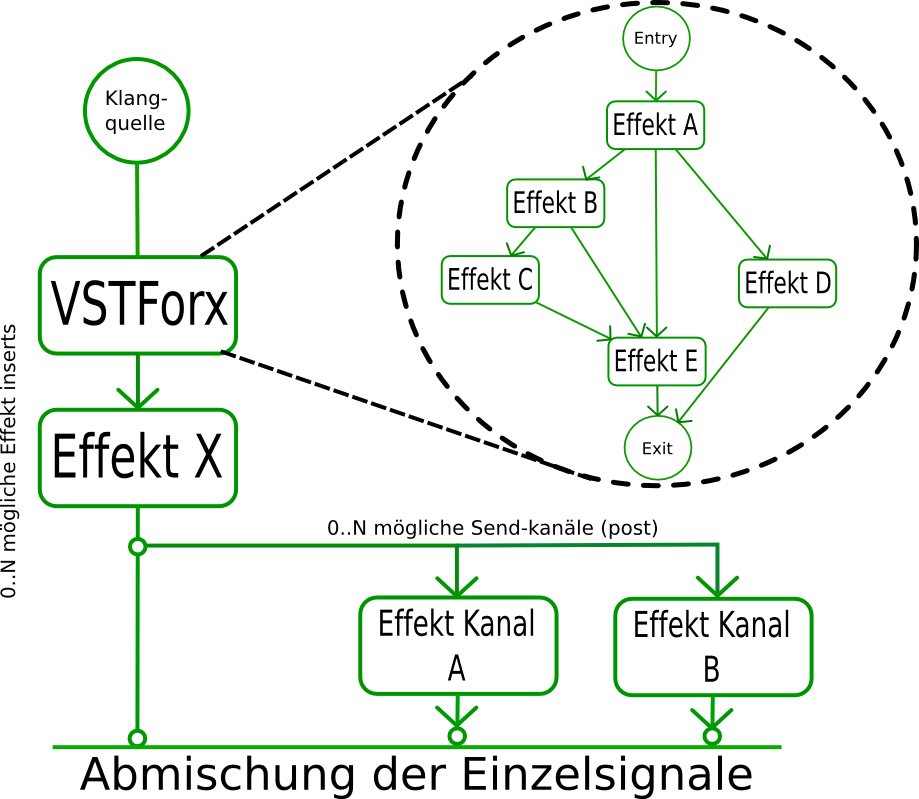
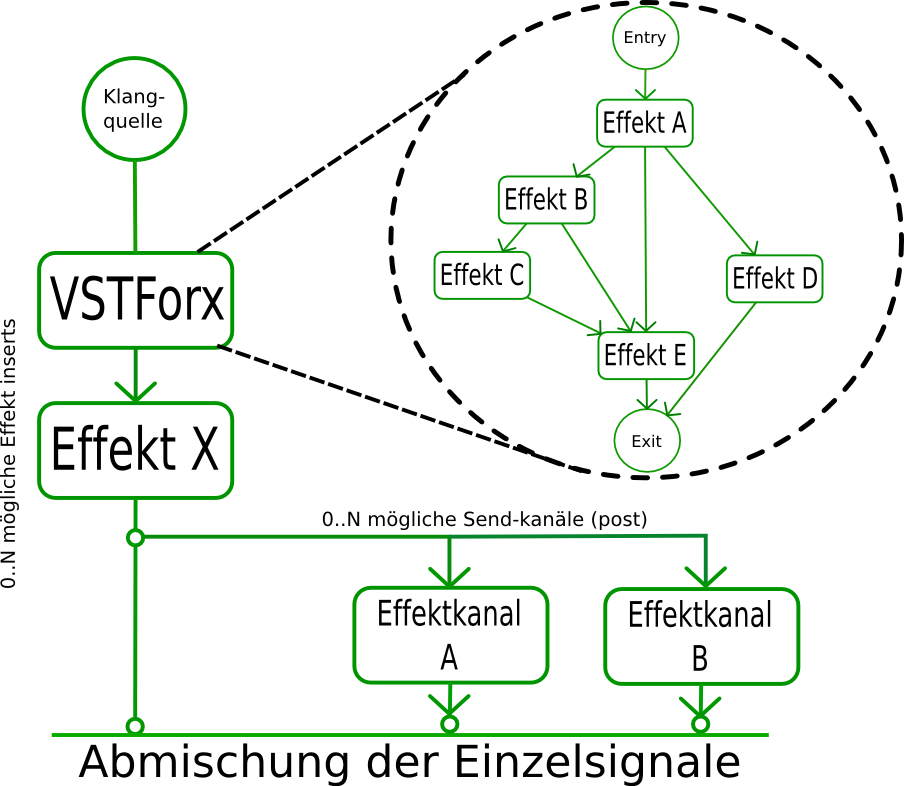
virginia mispelling fixes

diff --git a/Documents/Bc/tex/kap_Realisierung.tex b/Documents/Bc/tex/kap_Realisierung.tex
@@ -8,7 +8,7 @@ Um solchartige Probleme von vornherein zu umgehen, wurde ein bewährtes Lösungs
 Ein Nachteil beim Verwenden von \emph{Shared Pointer} ist allerdings, dass aus einem '\emph{this}' Zeiger eines Objektes kein \emph{Shared Pointer} erzeugt werden kann. So könnte zum Beispiel ein Objekt nicht sich selbst einer Methode übergeben, die ausschließlich \emph{Shared Pointer} entgegennimmt.
 Eine Lösung für dieses Problem findet sich im Abschnitt ''Smart Pointer Programming Techniques'', der \emph{Boost Shared Pointer Library Dokumentation}\verw{Boost}{Abschn.: 'Obtaining a shared\_ptr to this'}
 \\\\
-Es wird demnach ein Objekt einer Klasse ausschließlich über eine statische Methode erstellt. In dieser wird außerdem das neu erzeugte \emph{Shared Pointer} Objekt dem Zielobjekt als Weak-Pointer\verw{Ellis}{5.4. Weak pointers} übergeben (siehe Listing \ref{thisToPtr}).
+Es wird demnach ein Objekt einer Klasse ausschließlich über eine statische Methode erstellt. In dieser wird außerdem das neu erzeugte \emph{Shared Pointer}-Objekt dem Zielobjekt als Weak-Pointer\verw{Ellis}{5.4. Weak pointers} übergeben (siehe Listing \ref{thisToPtr}).
 
 \begin{code}{Shared Pointer in VSTForx-Klassen}{thisToPtr}
 class X {
@@ -61,7 +61,7 @@ Wie schon erwähnt, gibt es keinerlei Angaben, in welcher Reihenfolge diese Aufr
 	\item \funktion{dispatcher(effSetBlockSize, blockSize)}
 \end{itemize}
 
-Für einen Großteil der getesteten Plugins funktionierte dieser Vorgang. Bei einigen Plugins, kam es beim Öffnen zu Abstürzen oder sie funktionierten nicht ordnungsgemäß. Auffällig war, dass die Abstürze meist beim Aufruf von \emph{effOpen} erfolgten. Mittels Debugger konnte schließlich ermittelt werden, in welcher Reihenfolge Cubase VSTForx initialisiert:
+Für einen Großteil der getesteten Plugins funktionierte dieser Vorgang. Bei einigen Plugins kam es beim Öffnen zu Abstürzen oder sie funktionierten nicht ordnungsgemäß. Auffällig war, dass die Abstürze meist beim Aufruf von \emph{effOpen} erfolgten. Mittels Debugger konnte schließlich ermittelt werden, in welcher Reihenfolge Cubase VSTForx initialisiert:
  
 \begin{itemize}
 	\item \funktion{dispatcher(effSetSampleRate, sampleRate)}
@@ -72,14 +72,14 @@ Für einen Großteil der getesteten Plugins funktionierte dieser Vorgang. Bei ei
 	\item \funktion{dispatcher(effMainsChanged, 1) //resume}
 \end{itemize}
 
-Es ist zu anzunehmen, dass in einigen Fällen \emph{effOpen} Speicher mittels \emph{Samplerate} und/oder \emph{Blockgröße} alloziert. Wird daher \emph{effOpen} vor dem setzen der Samplerate/Blockgröße aufgerufen, kann es passieren, dass ein (unsauber programmiertes) Plugin versucht, Speicher mit undefinierter Größe zu allozieren. In C/C++ bedeutet undefiniert nicht '0', sondern irgendeine Zahl. Ist diese Zahl größer als der maximal verfügbare Speicher, bedeutet dies einen Absturz. 
+Es ist anzunehmen, dass in einigen Fällen \emph{effOpen} Speicher mittels \emph{Samplerate} und/oder \emph{Blockgröße} alloziert. Wird daher \emph{effOpen} vor dem setzen der Samplerate/Blockgröße aufgerufen, kann es passieren, dass ein (unsauber programmiertes) Plugin versucht, Speicher mit undefinierter Größe zu allozieren. In C/C++ bedeutet undefiniert nicht '0', sondern irgendeine Zahl. Ist diese Zahl größer als der maximal verfügbare Speicher, bedeutet dies einen Absturz. 
 \\\\
 Nachdem die ermittelte Reihenfolge übernommen wurde, waren keine Abstürze an der \emph{effOpen} Operation festzustellen. 
 
 \subsubsection{Stringoperation}
 Ein weiter Grund für Abstürze beim Öffnen von Plugins war das Anfordern von String-Informationen.
 So wird zum Beispiel der Pluginname mittels \codeinsert{\funktion{dispatcher(effGetEffectName, dstCharPtr)}} Aufruf angefordert. Beim Parameter \emph{dstCharPtr} handelt es sich um einen Zeiger auf eine \emph{char}-Reihung.
-Leider bietet das VST-SDK keinen Aufruf zum Ermitteln von String längen, sodass man gezwungen ist einer solchen Reihung eine feste Länge zuzuweisen. Das VST-SDK gibt hierfür die Größen vor. So existiert für jeden Aufruftyp der ein String liefert, eine Stringlängen-Konstante (zum Beispiel: \emph{kVstMaxEffectNameLen} für den Effektnamen oder \emph{kVstMaxVendorStrLen} für den Hersteller). Allerdings scheint es einige Plugins zu geben, die größere \emph{char}-Reihungen benötigen, als im VST-SDK angegeben. In solch einem Fall, kommt es zu einem Bufferüberlauf und somit zu einem Absturz. Umgangen werden konnte dies, indem der entsprechenden Reihung mehr Speicher zugewiesen wurde (2048 Zeichen statt 64). Der Fehler ist somit potentiell noch vorhanden, allerdings bietet das VST-SDK auch keine bessere Lösungsmöglichkeit.
+Leider bietet das VST-SDK keinen Aufruf zum Ermitteln von Stringlängen, sodass man gezwungen ist einer solchen Reihung eine feste Länge zuzuweisen. Das VST-SDK gibt hierfür die Größen vor. So existiert für jeden Aufruftyp der ein String liefert, eine Stringlängen-Konstante (zum Beispiel: \emph{kVstMaxEffectNameLen} für den Effektnamen oder \emph{kVstMaxVendorStrLen} für den Hersteller). Allerdings scheint es einige Plugins zu geben, die größere \emph{char}-Reihungen benötigen, als im VST-SDK angegeben. In solch einem Fall, kommt es zu einem Bufferüberlauf und somit zu einem Absturz. Umgangen werden konnte dies, indem der entsprechenden Reihung mehr Speicher zugewiesen wurde (2048 Zeichen statt 64). Der Fehler ist somit potentiell noch vorhanden, allerdings bietet das VST-SDK auch keine bessere Lösungsmöglichkeit.
 
 \subsubsection{Ausführungsverzeichnis}
 In einigen Fällen ist es für ein VST-Plugin erforderlich zu wissen, in welchem Verzeichnis es sich befindent.
@@ -87,7 +87,7 @@ Hierfür bietet das VST-SDK eine Operation: \codeinsert{\funktion{AudioEffectX::
 \emph{Cubase} und andere Hostanwendungen liefern hierfür die gewünschte Information. Der weit verbreitete Sequenzer \emph{Ableton Live} liefert jedoch einen leeren String. Somit ist es notwendig, über plattformspezifische Aufrufe an die erforderliche Information zu gelangen.
 
 \subsubsection{Verzeichnisauswahl}
-Ein ähnliches Problem bereitete die Verzeichnisauswahl. Einige Hostanwendungen bieten die Möglichkeit, einen Verzeichnisauswahl-Dialog über das VST-SDK auszuführen. Andere nicht. Somit ist es erforderlich selbst einen Auswahldialog zu implementieren. Ist eine Hostanwendung in der Lage, einen eigenen Verzeichnisauswahl-Dialog anzubieten, so sollte dieser auch genutzt werden. Im Falle des Sequenzers \emph{Synapse Orion}\footnote{http://www.synapse-audio.com/} wurde ein Verzeichnissauswahl-Dialog zwar angeboten, dieser aber liefert keinen Ergebnis-String. So konnte in besagtem Sequenzer VSTForx zwar Pluginverzeichnisse zur Auswahl anbieten, aber nicht übernehmen. Als Lösung wird nun immer die eigene Implementierung verwendet.
+Ein ähnliches Problem bereitete die Verzeichnisauswahl. Einige Hostanwendungen bieten die Möglichkeit, einen Verzeichnisauswahl-Dialog über das VST-SDK auszuführen. Andere nicht. Somit ist es erforderlich selbst einen Auswahldialog zu implementieren. Ist eine Hostanwendung in der Lage, einen eigenen Verzeichnisauswahl-Dialog anzubieten, so sollte dieser auch genutzt werden. Im Falle des Sequenzers \emph{Synapse Orion}\footnote{http://www.synapse-audio.com/} wurde ein Verzeichnissauswahl-Dialog zwar angeboten, dieser aber liefert keinen Ergebnis-String. So konnte im genannten Sequenzer VSTForx zwar Pluginverzeichnisse zur Auswahl anbieten, aber nicht übernehmen. Als Lösung wird nun immer die eigene Implementierung verwendet.
 %%%%%%%%%%%%%%%%%%%%%%%%%%%%%%%%%%%%%%%%%%%%%%%%%%%%%%%%%%%%%%%%%%%%
 \subsection{Graph-Test}
 Getestet wurde mittels dem Cppunit-Framework\footnote{http://sourceforge.net/projects/cppunit/}, welches eine C++ - Portierung von JUnit darstellt. Folgend sollen die getätigten Tests kurz beschrieben werden:
@@ -134,23 +134,23 @@ In diesem Test werden Knoten dem Graph hinzugefügt und entfernt. Es wird geprü
 Dieser Test arbeitet ähnlich wie \emph{testConnectNodes}. Getestet wird zusätzlich das Verbinden von Knoten. Folgende Operationen sollten vom Graph verweigert werden:
 \begin{itemize}
 	\item Verbinden eines Knoten mit einem ''NULL''-Knoten
-	\item Verbinden eines Knoten mit einem Knotenobjekt das nicht vom Graph aufgenommen wurde.
+	\item Verbinden eines Knoten mit einem Knotenobjekt, das nicht vom Graph aufgenommen wurde.
 	\item Erzeugen einer bereits vorhandenen Verbindung
-	\item Erzeugen einer ''Rückkoppelnden'' Verbindung
+	\item Erzeugen einer ''rückkoppelnden'' Verbindung
 \end{itemize}
 \paragraph{testSignalProcessPath}
 In diesem Test wird die vom Graph erstellte Prozess-Liste auf Korrektheit überprüft. Es werden verschiedene Szenarien erstellt und die jeweiligen Ausgaben mit entsprechenden Erwartungsergebnissen verglichen.
 \paragraph{testDelayAdapter}
-Zum Testen der Delay-Compensation wurde eigens ein ProcessAdapter implementiert. Der DelayAdapter. Dieser verzögert die Ausgabe eines Signals um N Millisekunden. Diese Funktionalität wird in diesem Test getestet.
+Zum Testen der Delay-Compensation wurde eigens ein ProcessAdapter implementiert, der DelayAdapter. Dieser verzögert die Ausgabe eines Signals um N Millisekunden. Diese Funktionalität wird in diesem Test getestet.
 \paragraph{testDelayCompensation}
-In diesem Test wird die Delay-Compensation getestet. Hierfür werden mehrere DelayAdapter Objekte in verschiedenen Szenarien eingefügt. Es wird geprüft, ob die Verzögerung des Graph-Ausgabesignals einem Erwartungswert entspricht.
+In diesem Test wird die Delay-Compensation getestet. Hierfür werden mehrere DelayAdapter-Objekte in verschiedenen Szenarien eingefügt. Es wird geprüft, ob die Verzögerung des Graph-Ausgabesignals einem Erwartungswert entspricht.
 \paragraph{testGraphConsistency}
 In diesem Test wird der Graph auf Stabilität geprüft. Es werden hintereinander viele Objekte hinzugefügt und wieder entfernt. Es werden NULL-Objekte hinzugefügt. Es wird mehrfach die Samplerate und die Blockgröße geändert (auch mit ungültigen Werten).
 \paragraph{testGraphComplex}
 In dieser Testreihe werden verschiedene Graph-Szenarien aus \\
 Volume-Adapter erstellt. Jeder Volume-Adapter erhält einen Volume-Multiplikator $vol$. Die verschiedenen Graph-Szenarien werden mit einer Eingangswertemenge($En$) prozessiert. Die Ausgabewertemenge($Ex$) muss einer Erwartungswertemenge entsprechen (siehe Abbildung \ref{testGraphComplex01} bis \ref{testGraphComplex03}). 
 \\\\
-Außerdem wird geprüft, ob die Anzahl der Frames-Objekt Kopiervorgänge der in Abschnitt \ref{Optimierung} beschriebenen Optimierung entspricht. Hierfür wird ein Zählmechanismus genutzt, der ausschließlich mittels Präprozessor Schalter: 
+Außerdem wird geprüft, ob die Anzahl der Frames-Objekt-Kopiervorgänge der in Abschnitt \ref{Optimierung} beschriebenen Optimierung entspricht. Hierfür wird ein Zählmechanismus genutzt, der ausschließlich mittels Präprozessor Schalter: 
 \codeinsert{\_FORX\_TESTSUITE}
 aktiviert wird.
 %
@@ -206,7 +206,7 @@ Der \emph{GCC C++\footnote{gcc version 4.2.1}} Compiler liefert hier allerdings 
 \emph{''invalid initialization of non-const reference of type ‘X}\&\emph{’ from a temporary of type ‘X’''}. 
 }
 \\\\
-Es ist daher nicht erlaubt, einer Funktion mit (non-const) Referenz-Parameter ein temporäres Objekt (in diesem Fall: X()) zu übergeben. Derartige Funktionen gab es einige im ursprünglichen Quelltext. Zur Lösung muss dem 'X\& x' Parameter ein \emph{'const'} Qualifier hinzugefügt werden. Prinzpiell sollte laut dem ''const-correctness'' Paradigma, 'const' wann immer wenn möglich verwendet werden\verw{Reddy}{S.180 
+Es ist daher nicht erlaubt, einer Funktion mit (non-const) Referenz-Parameter ein temporäres Objekt (in diesem Fall: X()) zu übergeben. Zur Lösung muss dem 'X\& x' Parameter ein \emph{'const'} Qualifier hinzugefügt werden. Prinzpiell sollte laut dem ''const-correctness'' Paradigma, 'const' wann immer wenn möglich verwendet werden\verw{Reddy}{S.180 
 ff}.
 
 \paragraph{Templates}
@@ -236,7 +236,7 @@ int main() {
 }
 \end{code}
 
-Das Problem des \emph{GCC-Compilers} ist nun, dass versucht wird, auf ein \emph{Archive} Objekt zuzugreifen, welches erst durch den Template-Parameter spezifiziert wird. Die Lösung ist das Hinzufügen des Schlüsselwortes, ''\emph{template}'' vor entsprechenden Aufruf:
+Das Problem des \emph{GCC-Compilers} ist nun, dass versucht wird, auf ein \emph{Archive}-Objekt zuzugreifen, welches erst durch den Template-Parameter spezifiziert wird. Die Lösung ist das Hinzufügen des Schlüsselwortes, ''\emph{template}'' vor entsprechendem Aufruf:
 \codeinsert{archive.template register\_type<Volume>();}
 
 

diff --git a/Documents/Bc/tex/kap_Loesungsansaetze.tex b/Documents/Bc/tex/kap_Loesungsansaetze.tex
@@ -2,13 +2,13 @@
 \section{Lösungsansätze}
 %%%%%%
 \subsection{Analyse vorhandener Systeme}
-Es existieren bereits einige Systeme, welche die gewünschten Funktionalität teilweise oder ganz umsetzen. Folgend sollen diese betrachtet werden. Es soll geklärt werden, welche Funktionen übernommen beziehungsweise sinnvoll erweitert werden können.
+Es existieren bereits einige Systeme, welche die gewünschte Funktionalität teilweise oder ganz umsetzen. Folgend sollen diese betrachtet werden. Es soll geklärt werden, welche Funktionen übernommen beziehungsweise sinnvoll erweitert werden können.
 \subsubsection{Native Instruments Reaktor}
 \emph{Reaktor\footnote{http://www.native-instruments.com/\#/en/products/producer/reaktor-55/. \\Abgerufen am 05.Februar 2011}} ist ein leistungsstarkes System zum Erschaffen von Effekten und Synthesizern. Es gibt eine Vielzahl an Modulen, die frei ''verdrahtet'' werden können. Ab Version 5 ist es sogar möglich, eigene Module mittels DSP-Schaltungen zu entwerfen\verw{Reaktor}. Die Module werden durch Parameter gesteuert, welche in Form von Drehreglern, auf einem frei gestaltbaren Bedien-Panel platziert werden können. Die Bedienung ist zwar direkt und intuitiv, der Programm-Anfänger jedoch ist schnell überfordert durch die Vielzahl an Funktionen und Modulen. Hier ist eine lange Einarbeitungszeit notwendig. Reaktor ist u.a. als VST-Plugin verfügbar, bietet aber keine Möglichkeit VST-Plugins zu laden und zu verwenden.
 \subsubsection{Ableton Live}
 \emph{Ableton Live\footnote{http://www.ableton.com/. Abgerufen am 05.Februar 2011}} ist in erster Linie ein Sequenzer. Der Fokus liegt daher auf dem Erstellen von Musikstücken. Ähnlich zu Cubase existiert hier ebenfalls das Spur/Mischpult-Prinzip. Effekte lassen sich somit ausschließlich nach vorgegebenen ''Bahnen'' verknüpfen. Einen interessanten Ansatz bieten die sogenannten ''Makro-Regler''. Diese erlauben es beliebig viele Bedienelemente, d.h auch VST-Pluginparameter, über einen ''Marco''-Regler zu steuern. Das Regelverhalten ist umkehrbar\verw{Ableton}{S.252 f}. 
 \\\\
-Die Benutzung solcher ''Makro-Regler'' ist wenig intuitiv. Um eine ''Makro''-Verbindung zu erstellen, sind mehrere Kontextmenü-Aufrufe an unterschiedlichen und teilweise unerwarteten Stellen notwendig. 
+Die Benutzung solcher ''Makro-Regler'' ist wenig intuitiv. Um eine ''Makro''-Verbindung zu erstellen, sind mehrere Kontextmenüaufrufe an unterschiedlichen und teilweise unerwarteten Stellen notwendig. 
 Dargestellt werden schließlich diese Verbindungen in einer Tabellen-Ansicht. Somit ist auf einen Blick nicht sofort erkennbar, welche Verbindungen bestehen. Dennoch ist der Zweck dieser Funktionalität interessant:  verschiedene Parameter verschiedener Effekte sinnvoll zu gruppieren.  
 \subsubsection{Metaplugin}
 Das VST-Plugin \emph{Metaplugin\footnote{http://www.ddmf.eu/product.php?id=3. Abgerufen am 05.Februar 2011}} erlaubt es, beliebig viele VST-Plugins auf einer ''Bühne'' zu platzieren und beliebig miteinander zu ''verdrahten''. Darüber hinaus bietet es keine weiteren Funktionen. Dadurch ist es allerdings auch sehr gut bedienbar. Die gesamte Funktionalität kann in innerhalb weniger Minuten allein durch Ausprobieren intuitiv erfasst werden.
@@ -30,13 +30,13 @@ Gegeben sei folgendes Beispiel:
 \\\\
 Der erforderliche Prozessablauf für Abbildung \ref{g01} wäre:
 \begin{enumerate}
-	\item bereite Inputsampleblöcke für Plugin-A vor
-	\item führe ''processReplace'' mit Plugin-A aus
-	\item bereite Inputsampleblöcke für Plugin-B vor (mit der Ausgabe von Plugin-A)
-	\item führe ''processReplace'' mit Plugin-B aus
-	\item\label{PlugC}bereite Inputsampleblöcke für Plugin-C vor (mit der Ausgabe von Plugin-A und B)
-	\item führe ''processReplace'' mit Plugin-C aus
-	\item übertrage die Ausgabe von Plugin-C in die Programm(VSTForx) Ausgabesampleblöcke
+	\item Vorbereitung der Inputsampleblöcke für Plugin-A
+	\item Ausführung von Plugin-A : ''processReplace''
+	\item Vorbereitung der Inputsampleblöcke für Plugin-B (mit der Ausgabe von Plugin-A)
+	\item Ausführung von Plugin-B: ''processReplace''
+	\item\label{PlugC}Vorbereitung der Inputsampleblöcke für Plugin-C (mit der Ausgabe von Plugin-A und B)
+	\item Ausführung von Plugin-C: ''processReplace''
+	\item Übertragung der Ausgabe von Plugin-C in die Programm (VSTForx) Ausgabesampleblöcke
 \end{enumerate}
 Wie in Schritt \ref{PlugC} zu sehen, ist zur korrekten Ausführung von Plugin-C notwendig, dass die Plugins A und B bereits bearbeitet wurden. Das bedeutet: Plugin-C ist von Plugin-A und Plugin-B abhängig. \\\\
 In der Graphentheorie gibt es einen Algorithmus, der in der Lage ist Abhängigkeiten aufzulösen: die Topologische Sortierung.
@@ -67,13 +67,13 @@ Bei einer Parallelschaltung, zweier Plugins mit unterschiedlichen Latenzwerten, 
 \\\\
 Um unterschiedliche Latenzen in einem komplexen Graph auszugleichen, sind folgende Schritte notwendig:
 \begin{itemize}
-	\item Hinzufügen eines berechneten Latenzwert je Knoten : $GL$ = Graphlatenz = die Latenz im Graph an Position des Knoten.
+	\item Hinzufügen eines berechneten Latenzwert je Knoten: $GL$ = Graphlatenz = die Latenz im Graph an Position des Knoten
 	\begin{description}
 		\item[$GL$ = ] Maximum($GL$-Wert der Elternknoten) + Knoten(Plugin)-Latenzewert
 	\end{description}
 	\item der $GL$-Wert des Graph-Ausgangsknoten = Gesamtlatenz des Graphen = $SUML$
 	\item Hinzufügen eines Buffers je Knoten
-	\item die Ausgaben aller Elternknoten $x$, an Position = $SUML - GL(x)$ dem Buffer hinzumischen (siehe Abbildung \ref{dc}).\\
+	\item die Ausgaben aller Elternknoten $x$, an Position = $SUML - GL(x)$ dem Buffer hinzumischen (siehe Abbildung \ref{dc})\\
 	\item Sampledatenmenge des Buffer als Eingabe weiterverwenden
 \end{itemize}
 \begin{figure}[h]
@@ -86,7 +86,7 @@ Um unterschiedliche Latenzen in einem komplexen Graph auszugleichen, sind folgen
 \subsection{Nebenläufigkeit}
 Ein VST-Plugin kann optional einen Editor implementieren. Ein Editor ist ein Fenster, welches die Benutzeroberfläche des Plugins enthält. Es wird von der DAW bei Bedarf geöffnet. Da Eingaben auf der Benutzeroberfläche zu einem unbestimmten Zeitpunkt geschehen und der Pluginprozess kontinuierlich ausgeführt wird, ist die Grundvorraussetzung für Nebenläufigkeitsprobleme gegeben. 
 \\\\
-Wird der Effekt-Graph geändert, während er vom Prozess bearbeitet wird, kann dies ein undefiniertes Verhalten verursachen. \\
+Wird der Effektgraph geändert, während er vom Prozess bearbeitet wird, kann dies ein undefiniertes Verhalten verursachen. \\
 Folgend sollen drei verschiedene Lösungsansätze, zur Vermeidung solcher Probleme, beschrieben werden:
 \paragraph{Blockieren des Prozesses}
 Es wäre möglich jede Graph verändernde Methode solange zu blockieren, wie die Graph-Prozessoperation ausgeführt wird. Umgekehrt wird die Ausführung der Prozessoperation blockiert, solange eine Graphverändernde Methode bearbeitet wird. Ein Verfahren, welches solch eine Blockierung bietet, ist das Mutex-Verfahren\verw{Tan}{S.176ff}.
@@ -135,12 +135,12 @@ public:
 };	
 		
 \end{code} 
-\paragraph{Das Befehl Entwurfsmuster}
+\paragraph{Das Befehl-Entwurfsmuster}
 Das Befehl-Entwurfsmuster gehört zu den Verhaltensmustern der ''GoF'' Entwurfsmuster.  Es dient dazu Programmbefehle in einem Objekt zu kapseln \verw{Gof}{S.273 ff}. \\
 Der Graph würde seine verändernden Befehle nicht mehr als öffentliche Methoden anbieten, sondern nur noch Befehlsobjekte entgegennehmen.
 Solch ein Objekt würde dann vom Graph zu einem sicheren Zeitpunkt (zum Beispiel nach Abschluss der Prozessmethode) ausgeführt (siehe Listing \ref{command}).
 
-\begin{code}{Lösung des Nebenläufigkeitsproblemes durch das Befehl Entwurfsmuster}{command}
+\begin{code}{Lösung des Nebenläufigkeitsproblemes durch das Befehl-Entwurfsmuster}{command}
 
 // Datei AenderGraph.h
 
@@ -185,11 +185,11 @@ public:
 	}	 
 };	
 \end{code} 
-Da es möglich ist ein VST-Plugin über die DAW in einen Standbymodus zu schalten, kann es mit dieser Lösung passieren, dass die entgegengenommenen Befehlsobjekte nicht mehr ausgeführt werden. Da die entsprechende Prozessoperation nicht mehr ausgeführt wird. Daher ist diese Vorgehensweise nicht geeignet.
+Da es möglich ist ein VST-Plugin über die DAW in einen Standbymodus\footnote{die Prozessmethode wird nicht mehr ausgeführt} zu schalten, kann es mit dieser Lösung passieren, dass die entgegengenommenen Befehlsobjekte nicht mehr ausgeführt werden. Da die entsprechende Prozessoperation nicht mehr ausgeführt wird. Daher ist diese Vorgehensweise nicht geeignet.
 
 \paragraph{Automatisches Blockieren und Freigeben}
 Mittels sogenannter RAII\footnote{Resource Acquisition Is Initialization}-Mechanismen\verw{Stephens}{S.291 ff} ist es möglich eine Lösung zu entwerfen, die dafür sorgt, dass der Prozess automatisch blockiert und wieder freigegeben wird, solange der Graph verändert wird. Realisiert wird dies durch eine Klasse namens ''Janitor''.
-Die Janitor-Klasse enthält exklusiv alle Graph verändernden Methoden. Der Konstruktor des Janitors blockiert die Prozessmethode, der Destruktor gibt sie wieder frei. Somit kann sichergestellt werden, dass, solange ein Janitior-Objekt existiert, der Graph nicht weiter abgearbeitet werden kann (siehe Listing \ref{janitor}).
+Die Janitor-Klasse enthält exklusiv alle Graph verändernden Methoden. Der Konstruktor des Janitors blockiert die Prozessmethode, der Destruktor gibt sie wieder frei. Somit kann sichergestellt werden, dass, solange ein Janitor-Objekt existiert, der Graph nicht weiter abgearbeitet werden kann (siehe Listing \ref{janitor}).
 \\\\
 Zusammen mit dem ''Smart Pointer''\verw{Ellis}{3.4. Smart pointers} Konzept kann erreicht werden, dass ein Janitor-Objekt von mehreren Stellen ohne gegenseitige Blockierung genutzt werden kann.\\
 Da nach jeder Graphänderung eine Prozess-Liste (siehe Abschnitt \ref{process}) erstellt werden muss, existiert mit dieser Lösung ein weiterer Vorteil:

diff --git a/Documents/Bc/tex/kap_Systementwurf.tex b/Documents/Bc/tex/kap_Systementwurf.tex
@@ -15,7 +15,7 @@ Um \emph{'png'}-Dateien darstellen zu können, benötigt die VST-GUI Bibliothek,
 		\item \emph{Mutex:} Implementation des Mutex-Konzeptes
 		\item \emph{Unordered Map:} Hash-Map Implementation (nicht in der STL enthalten)
 		\item \emph{Filesystem:} Dateisystem-Operationen, wie das Durchsuchen eines Verzeichnisses
-		\item \emph{Bind:} bietet u.a. Funktionszeiger auf (nicht-statische)Klassen-Methoden
+		\item \emph{Bind:} bietet u.a. Funktionszeiger auf (nicht-statische) Klassen-Methoden
 		\item \emph{Graph: } bietet verschiedene Graph-Strukturen, und Algorithmen (Siehe \ref{g})  
 	\end {itemize}
 \paragraph{SQLite}
@@ -50,12 +50,12 @@ Lediglich die Bezeichnungen wurden angepasst:
 \paragraph{Die Graph-Klasse} Das Hauptelement in der Processing-Ebene ist der Graph. Die Graphklasse dient als Container für alle auf der ''Bühne'' erzeugten Geschäftslogik-Objekte. Die Oberklasse dieser Objekte ist die PObject-Klasse\footnote{PObject = Processing Object}(siehe Abbildung \ref{graphoverview}).  
 
 \paragraph{\label{g}Die G-Klasse}
-Ursprünglich war es geplant, das Graph-Modell mittels Kompositum-Muster zu implementieren. 
+Ursprünglich war es geplant, das Graphmodell mittels Kompositum-Muster zu implementieren. 
 Daher: Der Graph besitzt $l$ Knoten, Knoten kennen $m$ Eltern- und $n$ Kindsknoten.
 Dieser Ansatz verursacht allerdings einige Probleme. Um einzelne Knoten zu erreichen, muss erst durch eine Knoten-Struktur traversiert werden. So werden einfache Aufgaben, wie das Kopieren einer Graphstrukur, schnell sehr aufwändig. \\
 Umgesetzt wurde schließlich die für Graphstrukturen übliche extrinistische Variante: Die Knoten bzw. Kanten werden in einer Adjazent-Datenstruktur aufgenommen. Diese Datenstruktur wird durch die G-Klasse repräsentiert. 
 \\\\
-Eine sehr gute Graph Implementation bietet die Boost Graph Library.
+Eine sehr gute Graph-Implementation bietet die Boost Graph Library.
 Sie bietet mehrere Vorteile: 
 \begin{itemize}
 	\item generische Implementierung (es kann durch Template-Parameter entschieden werden, welche Datenstrukturen zur Speicherung der Knoten und Kanten verwendet werden soll)
@@ -80,7 +80,7 @@ Die DCStream-Klasse (DC=Delay Compensation) ist Teil, der in Abschnitt \ref{Late
 
 \paragraph{\label{prnode}Die ProcessorNode-Klasse}
 Die ProcessorNode-Klasse ist die Oberklasse aller Knoten, die vom Prozessgraphen (G) aufgenommen werden können.
-Eine mixInputsToFrame()-Methode mischt alle Eingangs-Sampleblöcke, unter Verwendung der DCStream Klasse, in ein einzelnes Frames-Objekt, die Methode processFrames() bearbeitet es (siehe Abbildung \ref{graphcomp}) und 
+Eine mixInputsToFrame()-Methode mischt alle Eingangs-Sampleblöcke, unter Verwendung der DCStream-Klasse, in ein einzelnes Frames-Objekt, die Methode processFrames() bearbeitet es (siehe Abbildung \ref{graphcomp}) und 
 die Methode popFrames() liefert schlussendlich die Ausgangs-Samplemenge, an die aufrufenden Kind-Knoten.
 Ein ProcessorNode-Objekt enthält neben der Latenz, noch die Information über seinen Aktivitäts-Status.
 Ist ein Knoten aktiv bedeutet dies, dass er derart in den Graph eingebunden ist, dass er die Audioausgabe beeinflußt. Andernfalls wird er während der Prozessoperation ignoriert.
@@ -100,7 +100,7 @@ Die Kindknoten können nun über die Methode popFrames(), ein Frames Objekt als 
 \end{sidewaysfigure}
 
 \paragraph{Die ProcessAdapter-Klasse}
-Würden alle gewünschten Module nur aus einem Eingang und einem Ausgang bestehen, wäre es völlig ausreichend, die Modulfunktionen in einem Knoten zu implementieren. Da jedoch Module implementiert werden, die mehrere Ein-/Ausgänge verwenden, ist die Umsetzung etwas aufwändiger. Um mehreren Ausgängen, (=mehrere Kindknoten) unterschiedliche Frames-Objekte liefern zu können, bräuchte eine entsprechende Methode - zur Zuordnung - die Information welcher Kind-Knoten den Aufruf getätigt hat. Eine solche Implementierung wäre sehr fehleranfällig und schwer nachzuvollziehen. 
+Würden alle gewünschten Module nur aus einem Eingang und einem Ausgang bestehen, wäre es völlig ausreichend, die Modulfunktionen in einem Knoten zu implementieren. Da jedoch Module implementiert werden, die mehrere Ein-/Ausgänge verwenden, ist die Umsetzung etwas aufwändiger. Um mehreren Ausgängen, (=mehrere Kindknoten) unterschiedliche Frames-Objekte liefern zu können, bräuchte eine entsprechende Methode - zur Zuordnung - die Information welcher Kindknoten den Aufruf getätigt hat. Eine solche Implementierung wäre sehr fehleranfällig und schwer nachzuvollziehen. 
 \\\\
 Eine bessere Lösung ist, dass die Ein- und Ausgänge ebenfalls durch Knoten dargestellt werden (siehe Abbildung \ref{graphcomp}). Erzeugt und verwaltet werden diese, von einem übergeordneten Modul, der ProcessAdapter-Klasse. Ein zusätzlicher Knoten-Typ, der ProcessAdapterNode, sorgt dafür, dass der Aufruf processNode() an das jeweilige Modul verwiesen wird (siehe Abbildung \ref{lanes}).
 
@@ -152,21 +152,21 @@ Die GObject-Klasse ist die Oberklasse aller Objekte, die von der CircuidView auf
 \paragraph{GProcessModule}
 Die GProcessModule-Klasse ist die graphische Repräsentation der ProcessAdaptor-Objekte.
 \paragraph{GIONode}
-Die GIONode-Klassen repräsentieren die Input-/OutputNode Objekte.
+Die GIONode-Klassen repräsentieren die Input-/OutputNode-Objekte.
 \paragraph{GConnection}
 Die GConnection-Klassen repräsentieren die Verbindungen zwischen den GObjecten.
 \paragraph{CViewWrapper}
-Wie bereits beschrieben implementiert die CircuidView-Klasse die Bühnendarstellung, unabhängig von den CView-Klassen. Die CircuidView nimmt ausschließlich GObject-Objekte auf. Dies bedeutet jedoch, dass Vst-Gui SDK Steuerungs-Elemente (zB. Drehknöpfe) nicht mit der CircuidView verwendet werden können. Diesen Nachteil behebt die CViewWrapper-Klasse. Sie hüllt ein CView-Objekt in ein GObject-Objekt. Ein Template-Parameter wird festgelegt, welche GObject-Klasse Oberklasse ist.
+Wie bereits beschrieben implementiert die CircuidView-Klasse die Bühnendarstellung, unabhängig von den CView-Klassen. Die CircuidView nimmt ausschließlich GObject-Objekte auf. Dies bedeutet jedoch, dass Vst-Gui SDK Steuerungs-Elemente (zB. Drehknöpfe) nicht mit der CircuidView verwendet werden können. Diesen Nachteil behebt die CViewWrapper-Klasse. Sie hüllt ein CView-Objekt in ein GObject-Objekt. Ein Template-Parameter legt fest, welche GObject-Klasse Oberklasse ist.
 \begin{figure}[htbp]
 \begin{center}
 	\includegraphics[scale=0.45]{../../EA_UML/graphics/gui_overview}
-\caption{die GUI-Klassen Modell}
+\caption{das GUI-Klassen Modell}
 \label{parameterModel}
 \end{center}
 \end{figure}
 %%%%%%%%%%%%%%%%%%%%%%%%%%%%%%%%%%%%%%%%%%%%%%%%%%%%%%%%%%%%%%%
-\subsection{Die Control Ebene}
-Das MVC-Architekturmuster dient der losen Kopplung zwischen den Klassen der Geschäfts-Logik und der Benutzeroberfläche. Die Notwendigkeit dieser Architektur wird bei einem VST-Plugin besonders deutlich: Der Editor kann Wahlweise geöffnet oder geschlossen sein, während das Plugin weiterhin arbeitet. Dies bedeutet, Modell-und Viewobjekte haben unterschiedliche Lebenszeiten. 
+\subsection{Die Control-Ebene}
+Das MVC-Architekturmuster dient der losen Kopplung zwischen den Klassen der Geschäfts-Logik und der Benutzeroberfläche. Die Notwendigkeit dieser Architektur wird bei einem VST-Plugin besonders deutlich: Der Editor kann wahlweise geöffnet oder geschlossen sein, während das Plugin weiterhin arbeitet. Dies bedeutet, Modell- und Viewobjekte haben unterschiedliche Lebenszeiten. 
 \\\\
 
 \begin{figure}[htbp]
@@ -183,7 +183,7 @@ Da es viele unterschiedliche Objekte auf der ''Bühne'' gibt und jedes dieser Ob
 Deshalb wurde sich dafür entschieden, mehrere Control-Klassen für unterschiedliche Bühnenobjekte zu implementieren: die ObjectControl-Klassen. 
 \\\\
 Für jeden Bühnenobjekttyp existiert zur Laufzeit ein passendes ObjectControl-Objekt. 
-Der FrontController kümmert sich um die Zuordnung zwischen Bühnen- und Controlobjekt. Die Methode getController(GObject *obj) liefert den passenden Controller (siehe Abbildung \ref{seqCtrl}). 
+Der FrontController kümmert sich um die Zuordnung zwischen Bühnen- und Control-Objekt. Die Methode getController(GObject *obj) liefert den passenden Controller (siehe Abbildung \ref{seqCtrl}). 
 \begin{sidewaysfigure}[htbp]
 \begin{center}
 	\includegraphics[scale=0.5]{../../EA_UML/graphics/ctrlSeq}
@@ -194,7 +194,7 @@ Der FrontController kümmert sich um die Zuordnung zwischen Bühnen- und Control
 
 %%%%%%%%%%%%%%%%%%%%%%%%%%%%%%%%%%%%%%%%%%%%%%%%%%%%%%%%%%%%%%%
 \subsection{Gemeinsam genutzte Elemente}
-Neben den Hauptebenen (MVC) existieren noch einige gemeinsam genutzten Hilfsklassen und (frei stehenden) Funktionen.
+Neben den Hauptebenen (MVC) existieren noch einige gemeinsam genutzte Hilfsklassen und (frei stehende) Funktionen.
 Die wichtigsten sollen hier kurz aufgeführt werden:
 \paragraph{PluginCollection}
 Die PluginCollection-Klasse implementiert die PluginDatenbank. Anfragen werden auf SQL-Befehle abgebildet und schließlich durch SQLite ausgeführt. Sie existiert zur Laufzeit als Singleton-Objekt. Plugin-Objekte werden ausschließlich über die PluginCollection erzeugt. 

diff --git a/Documents/Bc/tex/kap_Aufgabenstellung.tex b/Documents/Bc/tex/kap_Aufgabenstellung.tex
@@ -4,9 +4,8 @@
 \subsubsection{Die Pluginschnittstelle}
 Da VSTForx ein VST-Plugin werden soll, muss es dem VST Standard entsprechen. Es stehen hierbei zwei Versionen zur Auswahl: VST2.x und VST3.x.
 \paragraph{VST2.x}
-Das VST2.x SDK hatte im Jahre 2006 sein letztes Update erfahren\verwS{Stein01}. Seine Ursprünge reichen bis in das Jahr 1990 zurück, als die VST Schnittstelle erstmals entwickelt wurde.
-Da in den 90er Jahren die Rechenleistung begrenzt war, war ein wesentliches Entwurfsziel die Performance. So ist ein Großteil des SDKs in C geschrieben \footnote{es existieren aber - um die Implementierung zu vereinfachen - C++ Wrapperklassen.}.
-Aus heutiger Sicht können viele in der VST2.x SDK verwendete Techniken als veraltet betrachtet werden. So wird zum Beispiel zur 'Host nach Plugin Kommunikation' lediglich eine einzige Methode verwendet, die über sogenannte Opcodes\footnote{Abkürzung für Operation Code. Jede aufrufbare Operation wird durch einen Code Symbolisiert und als Parameter übergeben.} parametrisiert werden. Es werden sehr häufig '*void' Zeiger benutzt, was zusammen mit einer schlechten Dokumentation schnell zu schwer auffindbaren Fehlern führen kann\verw{Vst}{Abschn.: 'AudioEffect/dispatcher'}). 
+Das VST2.x SDK hatte im Jahre 2006 sein letztes Update erfahren\verwS{Stein01}. Seine Ursprünge reichen bis in das Jahr 1990 zurück, als die VST Schnittstelle erstmals entwickelt wurde. Aufgrund der begrenzten Rechenleistung in den 90er Jahren war ein wesentliches Entwurfsziel die Performance. So ist ein Großteil des SDKs in C geschrieben \footnote{es existieren aber - um die Implementierung zu vereinfachen - C++ Wrapperklassen.}.
+Aus heutiger Sicht können viele in der VST2.x SDK verwendete Techniken als veraltet betrachtet werden. So wird zum Beispiel zur 'Host nach Plugin Kommunikation' lediglich eine einzige Methode verwendet, die über sogenannte Opcodes\footnote{Abkürzung für Operation Code. Jede aufrufbare Operation wird durch einen Code symbolisiert und als Parameter übergeben.} parametrisiert werden. Es werden sehr häufig 'void' Zeiger benutzt, was zusammen mit einer schlechten Dokumentation schnell zu schwer auffindbaren Fehlern führen kann\verw{Vst}{Abschn.: 'AudioEffect/dispatcher'}). 
 \paragraph{VST3.x}
 Das VST3.x SDK wurde im Jahre 2008 eingeführt und ist eine vollständige Neuentwicklung\verwS{Stein02}. Es ist komplett objektorientiert und bietet eine Menge neuer Funktionen, die dabei helfen VST-Plugins schneller und komfortabler zu entwickeln. 
 \\\\
@@ -63,17 +62,17 @@ Das Programm sollte in der Lage sein, alle Einstellungen und Konstruktionen daue
 \subsubsection{Weitere zusätzliche Module}
 \begin{itemize}
 	\item Peak2Value - transformiert den Ausschlag (engl. Peak) eines Signals in ein Parameterwert. Solch ein Parameterwert wird als (nicht veränderbarer) Regler dargestellt und kann mit anderen Reglern verbunden werden.
-	\item ADSR2Value - wird an einem Signalpfad ein Schwellwert überschritten, startet dieses Modul eine ADSR\footnote{ADSR - Attack, Decay, Sustain, Release: idealisierten Phasen der Hüllkurve eines Klanges} Sequenz \verw{Goerne}{S. 234}. Wie schon beim ''Peak2Value'' Modul wird der Wert dieser Sequenz in einen Parameterwert transformiert.
+	\item ADSR2Value - wird an einem Signalpfad ein Schwellwert überschritten, startet dieses Modul eine ADSR\footnote{ADSR - Attack, Decay, Sustain, Release: idealisierte Phasen der Hüllkurve eines Klanges} Sequenz \verw{Goerne}{S. 234}. Wie schon beim ''Peak2Value'' Modul wird der Wert dieser Sequenz in einen Parameterwert transformiert.
 	\item Midi2Value - transformiert MIDI-Ereignisse wie Modulation oder Pitch in einen Parameterwert Sequenz\verw{Goerne}{S. 264}.
 \end{itemize}
 
 \subsubsection{Unterstützung alternativer Pluginformate}
-Denkbar wäre es weitere bekannte (Audio-) Pluginformate zu unterstützen. Sowohl in der Form, dass VSTForx alternative Pluginformate kennt und öffnen kann, als auch dass VSTForx in einem alternativen Pluginformat in compilierbar ist.
+Denkbar wäre es weitere bekannte (Audio-) Pluginformate zu unterstützen. Sowohl in der Form, dass VSTForx alternative Pluginformate kennt und öffnen kann, als auch dass VSTForx in einem alternativen Pluginformat kompilierbar ist.
 \\\\
 Alternative Pluginformate wären:
 \begin{itemize}
 \item VST3.x
-\item AudioUnits (Mac OSX exclusives Pluginformat)
+\item AudioUnits (Mac OSX exklusives Pluginformat)
 \item DX (DirectX Pluginformat) 
 \item LV2 (ist eine OpenSource Audio-Plugin Variante und Weiterentwicklung von LADSPA\footnote{Abkürzung für: Linux Audio Developers Simple Plugin API})
 \end{itemize}

diff --git a/Documents/Bc/tex/kap_Fazit.tex b/Documents/Bc/tex/kap_Fazit.tex
@@ -5,23 +5,23 @@ Insbesondere wurde die Boost-Bibliothek schätzen gelernt, welche \emph{C++} um 
 \\\\
 Mit VSTForx ist es - nach Meinung des Autors - gelungen, ein interessantes und spanendes Werkzeug zu entwickeln. Dennoch ist die Entwicklung an VSTForx noch nicht abgeschlossen. Folgend werden zukünftige (mögliche) Verbesserungen oder Erweiterungen besprochen. 
 \subsection{Verbesserungen}
-\subsection{GUI}
-Die VST-GUI Bibliothek bietet leider zu wenig oder unzureichend implementierte Funktionen, um eine vollwertige GUI-Anwendung zu entwickeln. So sind die meisten Elemente in VST-GUI, bitmapbasierend und mit festen Positionen versehen. Eine Schaltfläche muss daher erst gezeichnet und dann platziert werden. Eine dynamische Anwendung (Objekte veränderbarer in Größe und Position) mit einheitlichem Look-And-Feel, kann somit nur sehr schwer umgesetzt werden. 
+\subsubsection{GUI}
+Die VST-GUI Bibliothek bietet leider zu wenig oder unzureichend implementierte Funktionen, um eine vollwertige GUI-Anwendung zu entwickeln. So sind die meisten Elemente in VST-GUI, bitmapbasierend und mit festen Positionen versehen. Eine Schaltfläche muss daher erst gezeichnet und dann platziert werden. Eine dynamische Anwendung (Objekte veränderbar in Größe und Position) mit einheitlichem Look-And-Feel, kann somit nur sehr schwer umgesetzt werden. 
 \\\\
 Wünschenswert wäre hier die Verwendung eines GUI-Toolkits, wie \emph{Qt\footnote{http://qt.nokia.com}} oder \emph{WxWidgets\footnote{http://www.wxwidgets.org}}. Leider konnte  noch kein passendes Toolkit gefunden werden. Jedes (bisher geprüfte) Toolkit erzeugt und verwaltet ein eigenes Fenster, um darin Objekte zu platzieren. VST-Plugins verwenden allerdings ein von der Hostanwendug (teilweise mit eigener Dekoration) erzeugtes Fenster. Es muss daher ein Toolkit gefunden (oder entwickelt) werden, welches basierend auf einen bereits existierenden ''Window-Handler'', GUI-Funktionen bietet.
 \\\\
 Im Falle einer Eigenentwicklung käme die \emph{Cairo\footnote{http://cairographics.org/}}-Bibliothek in Frage. Diese bietet sehr leistungsfähige Zeichenfunktionen und ist, wie gefordert, in bestehende Fensterumgebungen einbindbar.
-\subsection{'Signal nach Parameterwert'-Problem}
+\subsubsection{'Signal nach Parameterwert'-Problem}
 'Signal nach Parameterwert'-Module, welche ein Eingangsignal analysieren, um einen Parameterwert zu steuern, haben eine Einschränkung: Sie werden, da sie als \emph{ProcessAdapter} in den Graph eingebunden sind, nur einmal pro Sampleblock ausgeführt. Das bedeutet, dass ein Parameterwert sich immer seltener ändert, je höher die Sampleblockgröße ist. Bei einer Samplerate von 44100.0Hz und einer (üblichen) Blockgröße von 1024 wird demnach ein Parameter alle 23Ms aktualisiert. Dies ist vermutlich kaum wahrnehmbar, nach Meinung des Autors dennoch ein kleiner Schönheitsfehler.
 \\\\
 Zur Lösung müsste die Parameter-Aktualisierung entsprechender Module in einem separaten Thread mit fester Aktualisierungsrate durchgeführt werden. 
-\subsection{Weitere Module}
+\subsubsection{Weitere Module}
 \paragraph{'Frequenz nach Wert'-Modul}
 Denkbar wäre ein 'Signal nach Parameterwert'-Modul, welches die Grundtonfrequenz eines Signals ermittelt und als Parameterwert ausgibt. In einem früheren Projekt wurde ähnliches mittels FFT-Analyse bereits realisiert. Der Algorithmus - welcher in der Sprache C vorliegt - müsste angepasst und als \emph{ProcessAdapter} eingebunden werden.  
 \paragraph{Skript-Unterstützung}
 Da die Entwicklung zusätzlicher Module viel Arbeit und Zeit in Anspruch nimmt (Implementierung verschiedener Klassen, lange Kompilierungszeiten), wäre es hilfreich, mittels einer dynamischen Skriptsprache Module zu entwerfen, ohne das eigentliche Programm neu kompilieren zu müssen. 
 \\\\
-So wäre eine Modultyp denkbar, der seine Berechnungszeit an ein externes Skript weitereichen würde. Besonders geeignet wäre hierfür die Skriptsprache \emph{Lua\footnote{http://www.lua.org/}}. Lua ist kompiliert nur wenige Kilobyte groß und sehr leicht in ein bestehendes C/C++ - Programm einbindbar. 
+So wäre ein Modultyp denkbar, der seine Berechnungszeit an ein externes Skript weitereichen würde. Besonders geeignet wäre hierfür die Skriptsprache \emph{Lua\footnote{http://www.lua.org/}}. Lua ist kompiliert nur wenige Kilobyte groß und sehr leicht in ein bestehendes C/C++ - Programm einbindbar. 
 Auf ähnlichem Wege wären auch benutzerdefinierte Parameter-Operatoren denkbar.
 
  

diff --git a/Documents/Bc/tex/kap_einleitung.tex b/Documents/Bc/tex/kap_einleitung.tex
@@ -9,7 +9,7 @@
 \end{figure}
 Moderne DAWs\footnote{Digital Audio Workstation: computergestütztes System für Tonaufnahme, Musikproduktion, Abmischung und Mastering} bieten umfangreiche und kreative Werkzeuge zum Erzeugen und Manipulieren von Klangereignissen. In vielen Fällen orientierten sich solche Programme anhand real existierender Hardware. So wird oftmals ein Klangereignis einem Kanal in einem virtuellen Mischpult zugeordnet, der einem real existierenden Gerät nachempfunden wurde.
 \\\\
-Es können neben der Lautstärkeregelung und Stereoverteilung auch Effekte in einen solchen Kanal eingefügt werden. Hier unterscheiden sich allerdings die Möglichkeiten zwischen real existierender Hardware und der Software Lösung. Während es in der Realität unzählige Möglichkeiten gibt verschiedene Effekte zu kombinieren - sprich zu „verdrahten“ (siehe Abbildung \ref{freeOrder}) - sind die meisten DAWs in ihren Möglichkeiten beschränkt.
+Es können neben der Lautstärkeregelung und Stereoverteilung auch Effekte in einen solchen Kanal eingefügt werden. Hier unterscheiden sich allerdings die Möglichkeiten zwischen real existierender Hardware und der Softwarelösung. Während es in der Realität unzählige Möglichkeiten gibt verschiedene Effekte zu kombinieren - sprich zu „verdrahten“ (siehe Abbildung \ref{freeOrder}) - sind die meisten DAWs in ihren Möglichkeiten beschränkt.
 Dies soll anhand des Sequenzers ''Cubase\footnote{verwendete Version: Cubase SL 2.0}'' veranschaulicht werden:
 \\\\
 \begin{figure}[htbp]
@@ -25,7 +25,7 @@ Dies soll anhand des Sequenzers ''Cubase\footnote{verwendete Version: Cubase SL 
 \end{figure}
 Jede Klangquelle in Cubase, sei es eine Audiospur oder ein virtuelles Instrument, wird einem eigenen Kanal in dem virtuellen Mischpult zugeordnet. 
 Solch ein Kanal hat neben einem Equalizer und einer Pan-/Lautstärkeregelung eine feste Anzahl von  ''Insert-Slots''. In einen solchen ''Slot'' kann genau ein Effektmodul geladen werden (in Abbildung 2 und 3 als ''Effekt A..X'' bezeichnet). Jeder dieser Effekte wird nacheinander durchlaufen, was einer Reihenschaltung entspricht. Für eine Parallelschaltung steht eine begrenzte Anzahl von sogenannten ''Send'' Signalwegen zur Verfügung, von denen es zwei Varianten gibt: ''pre-send'' und ''post-send'' (siehe Abbildung \ref{send}).
-Je nach Typ wird das Audiosignal vor der Insert-Effektkette abgegriffen oder danach und in einen Effekt Kanal geleitet. Dieser Effektkanal besteht aus einer begrenzten Anzahl aus ''Insert-Slots''.
+Je nach Typ wird das Audiosignal vor der Insert-Effektkette abgegriffen oder danach und in einen Effektkanal geleitet. Dieser Effektkanal besteht aus einer begrenzten Anzahl aus ''Insert-Slots''.
 \\\\
 Diese Möglichkeiten sind für die meisten Produktionen vollkommen ausreichend, da der Unterschied - ob ein Effekt in Reihe oder parallel geschaltet wurde - abhängig vom Effekttyp - meistens sehr gering ist. Dennoch ist es manchmal wünschenswert etwas mehr Kontrolle und Übersicht über die Zusammensetzung der einzelnen Signalwege zu haben. 
 \\\\
